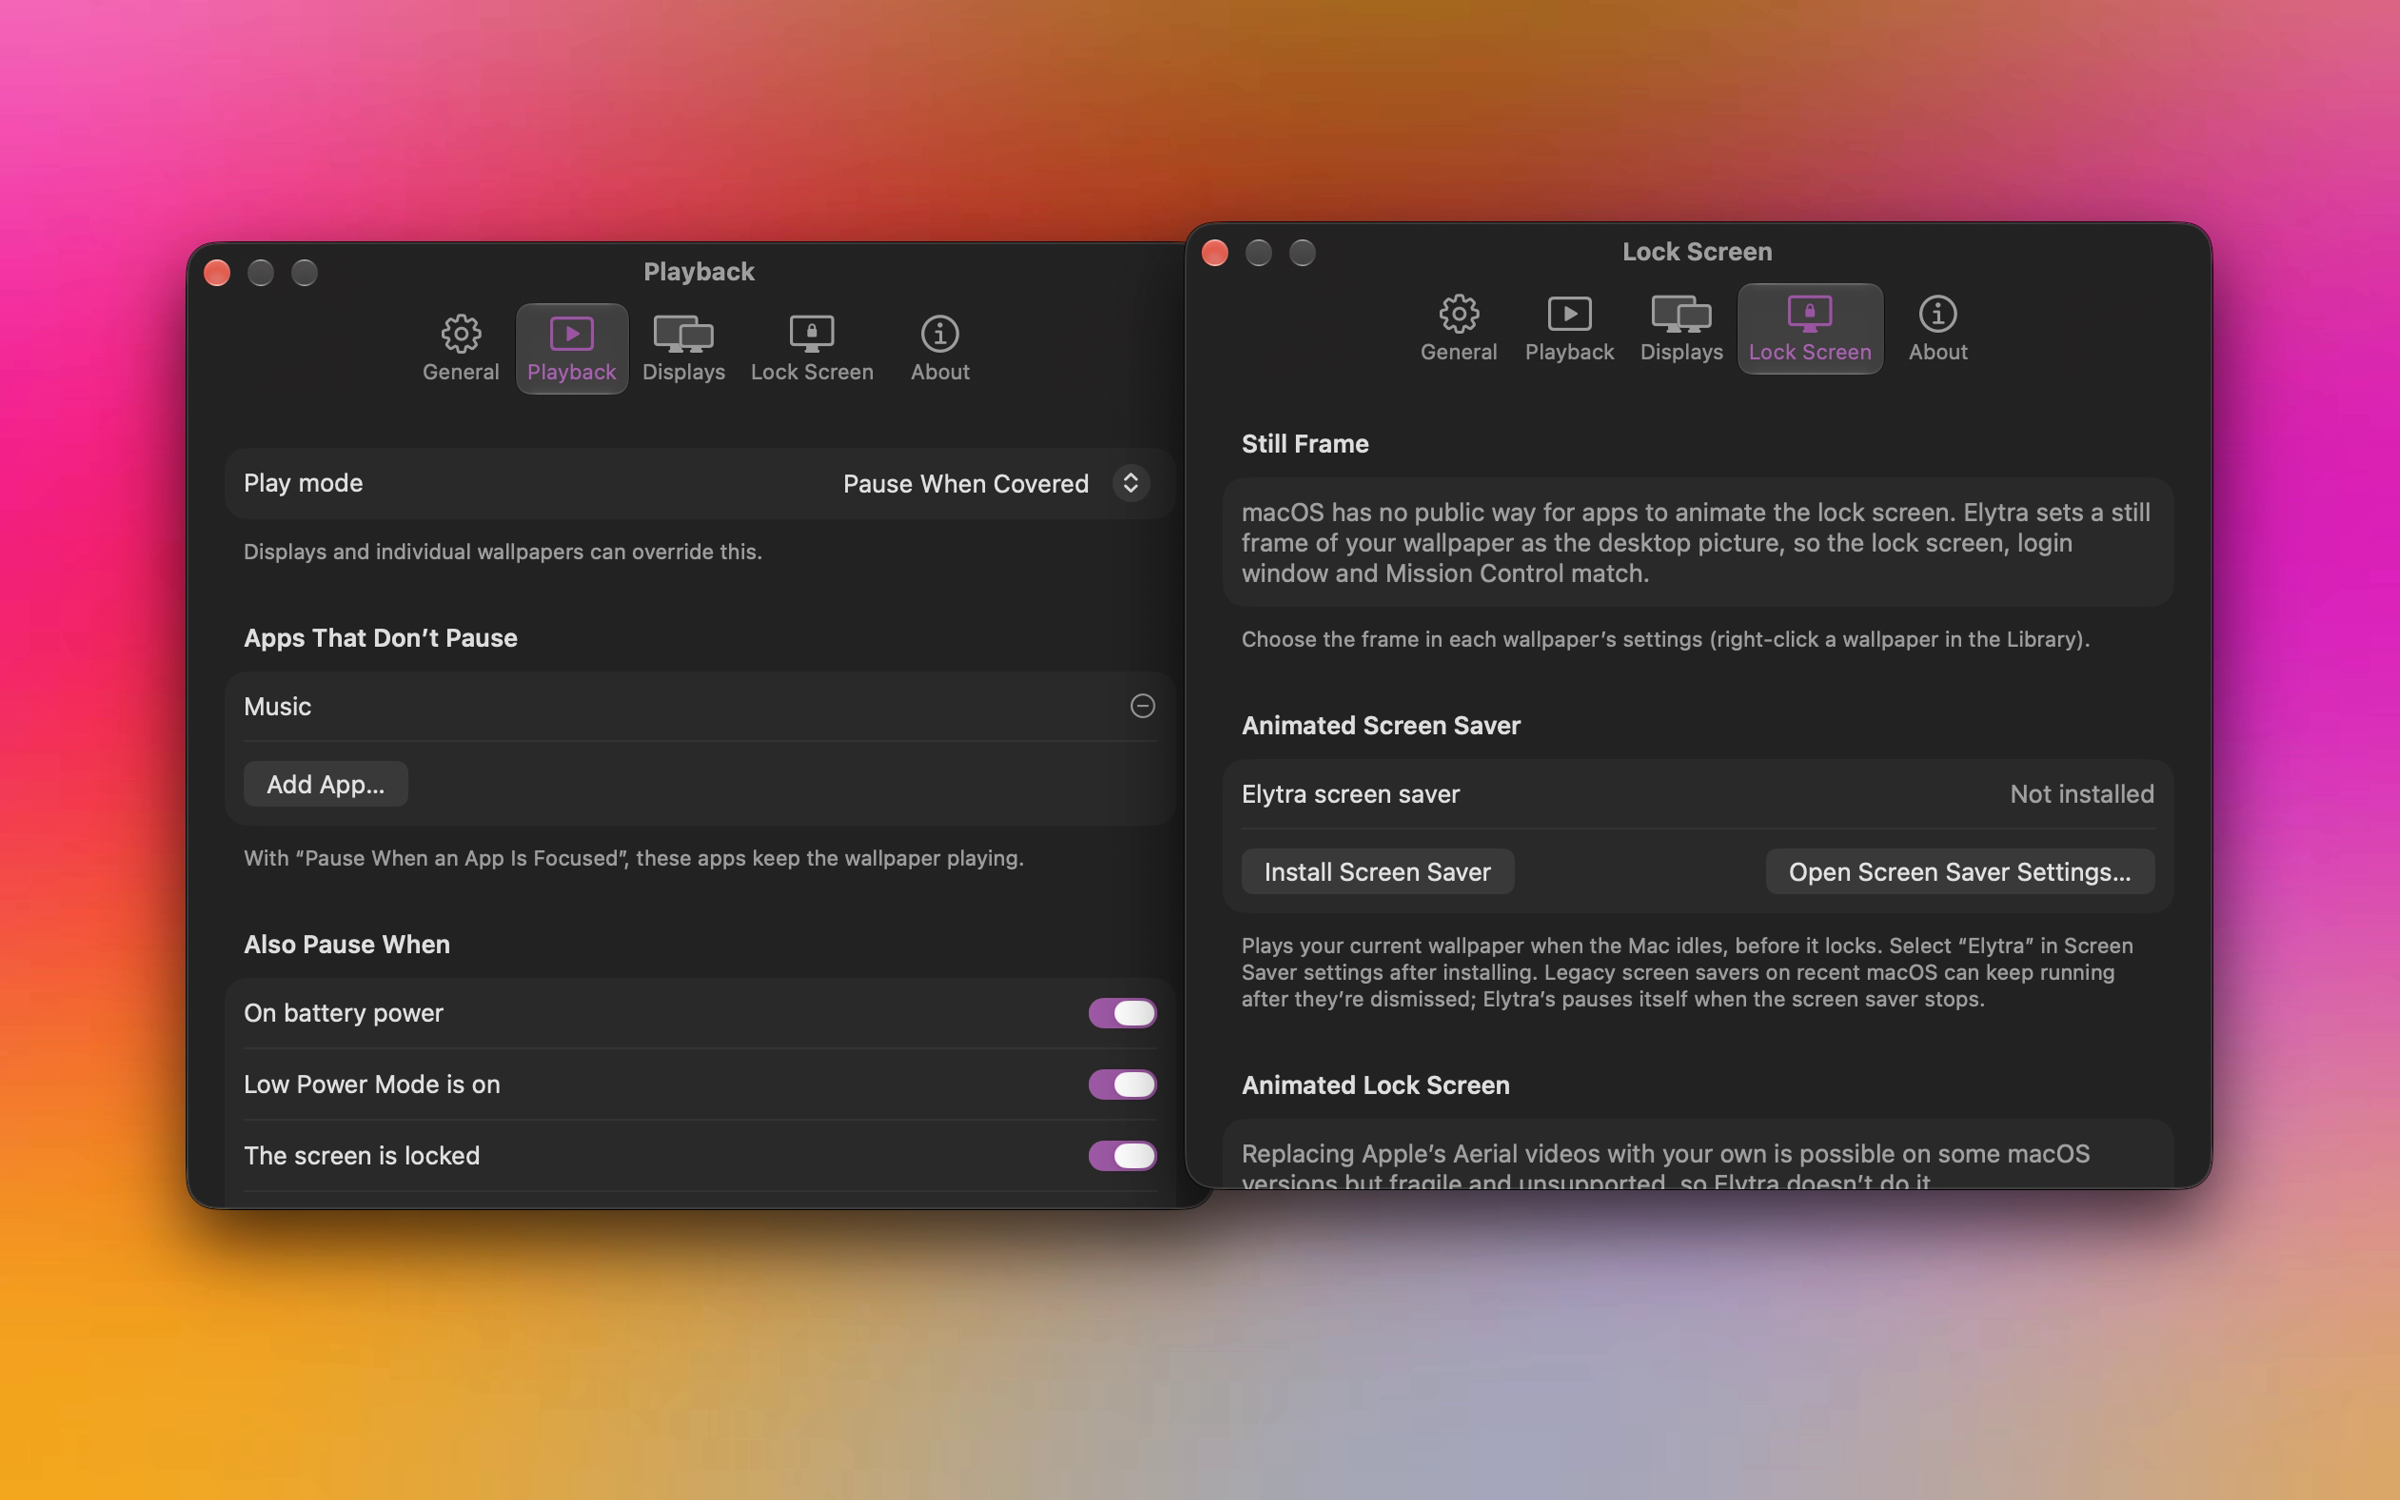
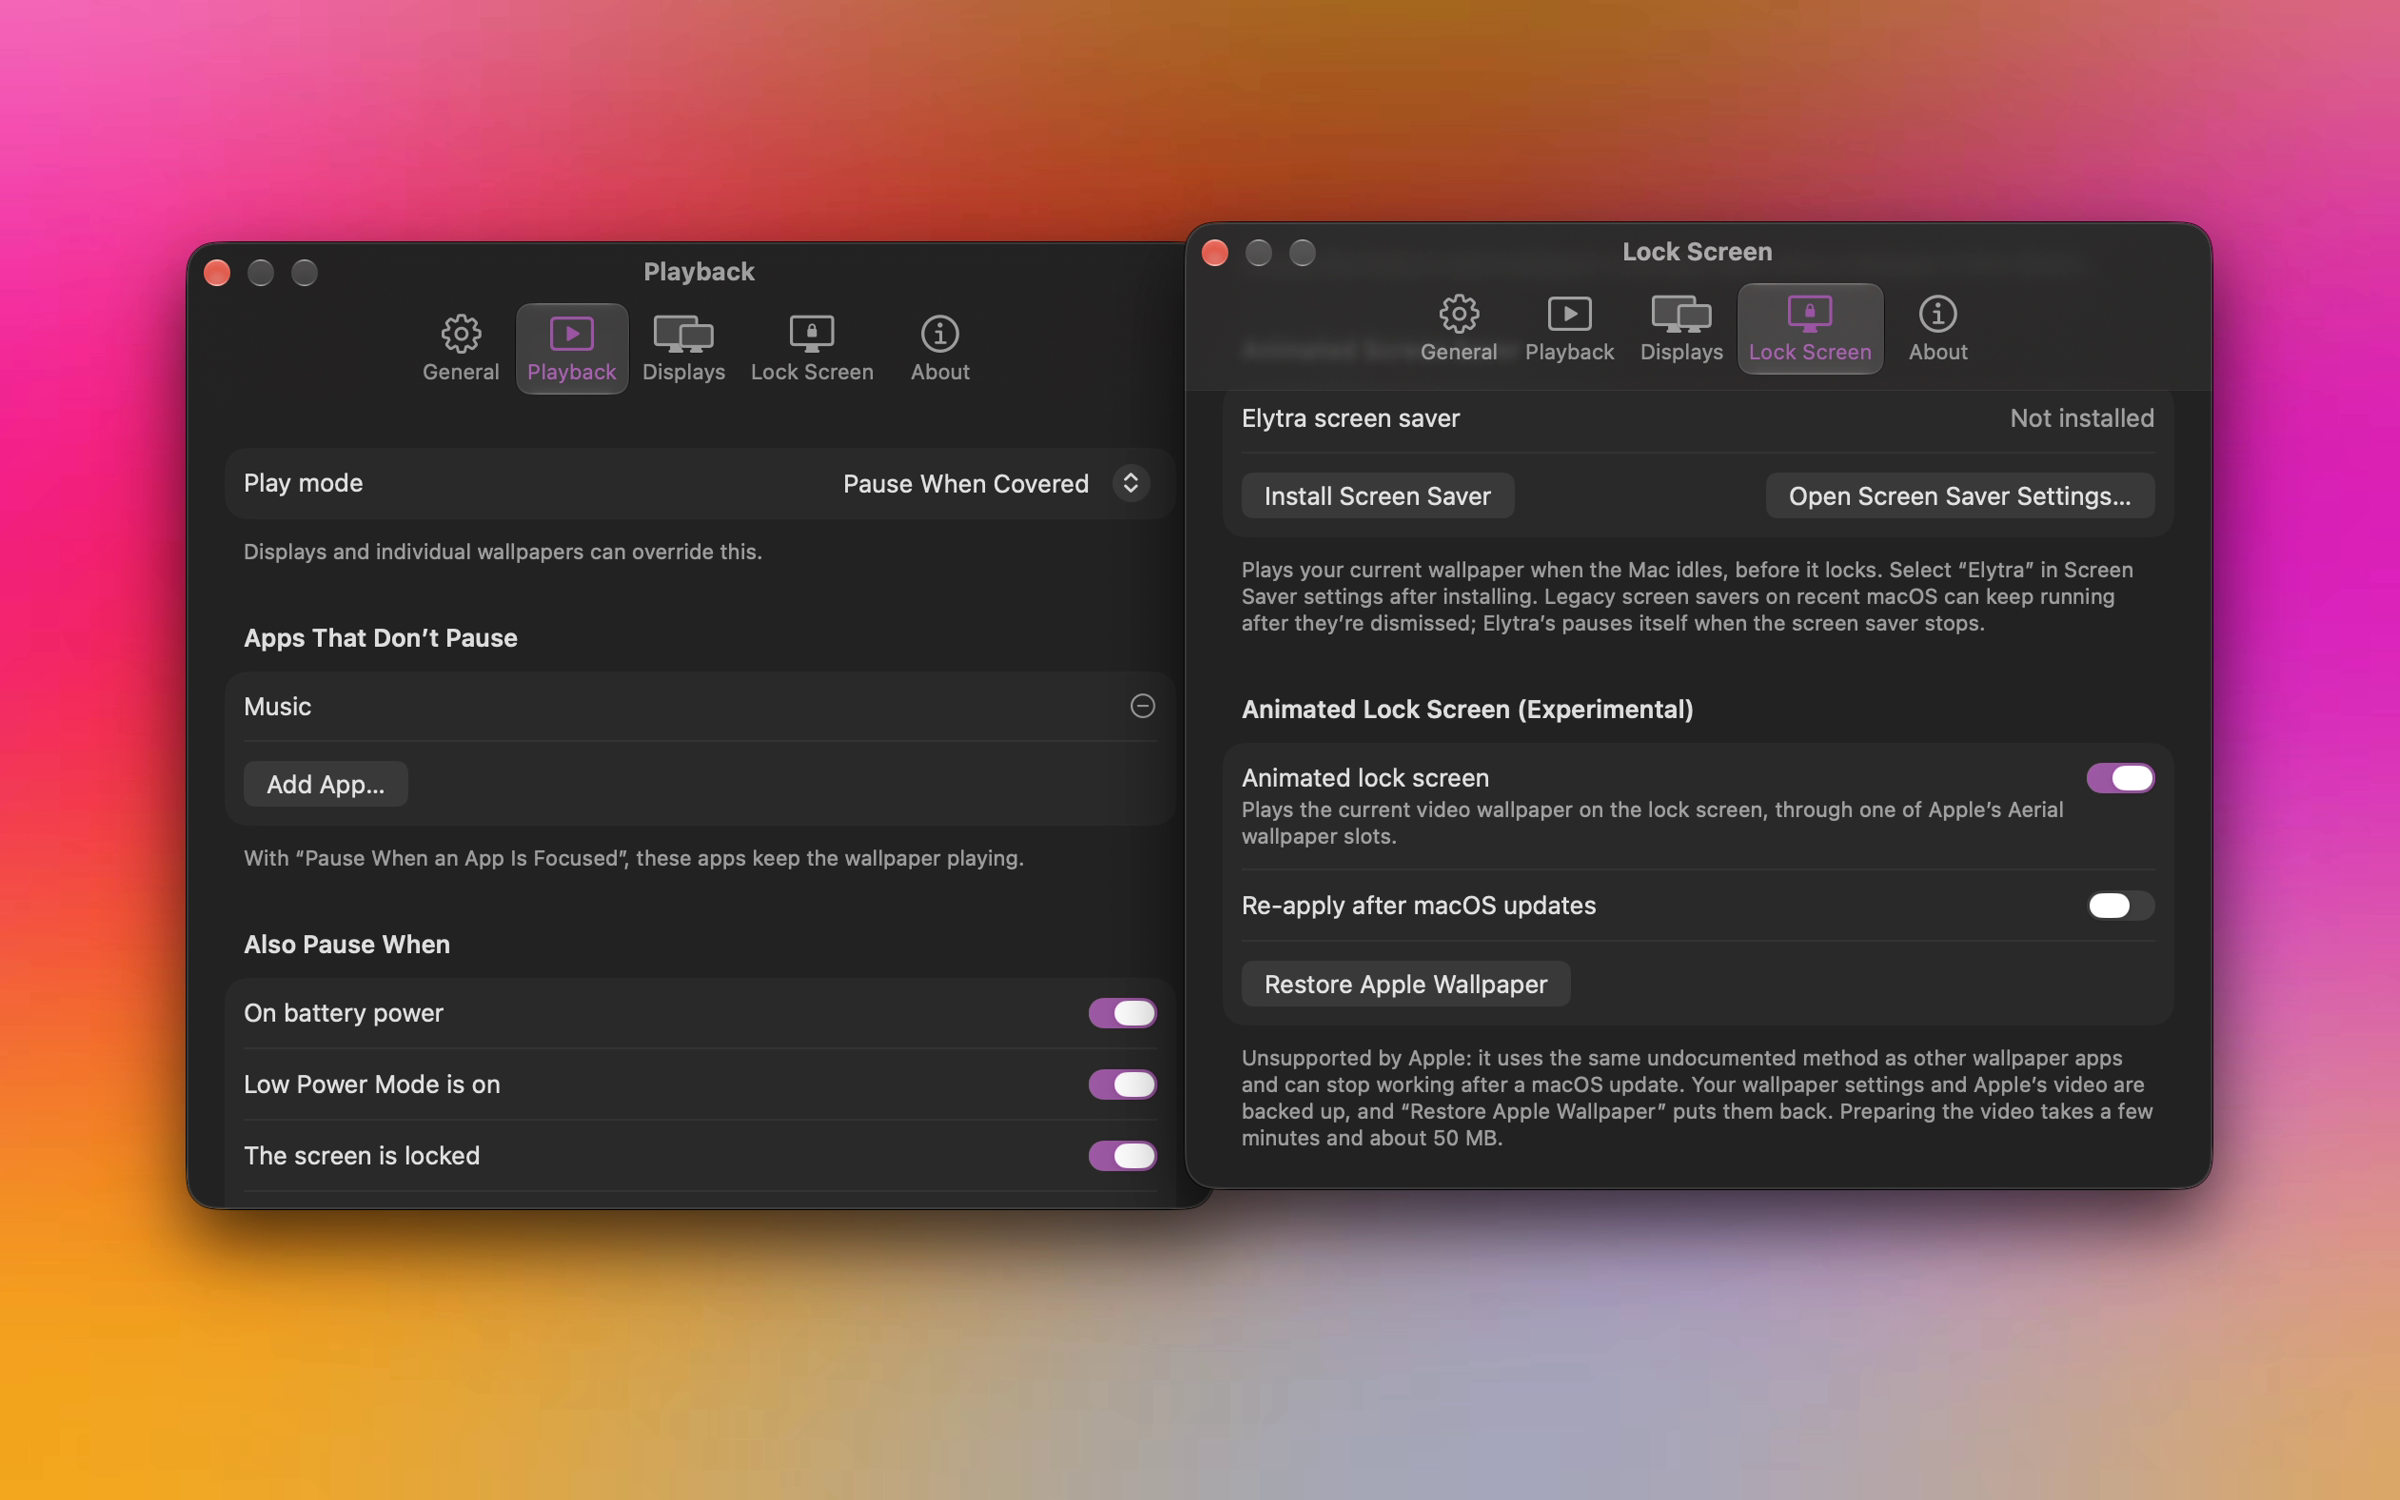
docs: animated lock screen and updated settings screenshot

diff --git a/README.md b/README.md
@@ -40,7 +40,8 @@ A native macOS menu-bar app that plays video wallpapers behind your desktop icon
 - Still images (JPG, PNG, HEIC) as a zero-cost option
 
 **Lock screen and screen saver**
-- The wallpaper's still frame (you pick the frame) becomes your lock screen, login and Mission Control background
+- **Animated lock screen (experimental):** your video plays on the Mac's lock screen, even when Elytra is closed. One click to turn it on, one click to restore Apple's wallpaper
+- Or keep it simple: the wallpaper's still frame (you pick the frame) becomes your lock screen, login and Mission Control background
 - Optional bundled screen saver that plays your current wallpaper when the Mac is idle
 - Your original wallpaper comes back when you quit
 
@@ -86,8 +87,8 @@ Elytra has no network code and no analytics. Your wallpapers stay in `~/Library/
 
 ## FAQ
 
-**Can Elytra animate the lock screen itself?**
-macOS has no public way for apps to do that. Elytra uses a still frame of your wallpaper for the lock screen, plus an optional animated screen saver for when the Mac is idle.
+**Can Elytra animate the lock screen?**
+Yes, as an experimental option. macOS has no official API for this, so Elytra uses the same approach as other wallpaper apps: it re-encodes your video once (about 2 minutes) into the format of Apple's Aerial wallpapers and swaps it into one Aerial slot. A macOS update can undo it; turn on **Re-apply after macOS updates** if you want Elytra to put it back automatically. **Restore Apple Wallpaper** reverts everything.
 
 **Does it slow down games or video calls?**
 With the default *Pause when covered* mode, a full-screen or maximised window pauses the wallpaper, and after five minutes the video is unloaded from memory entirely.
